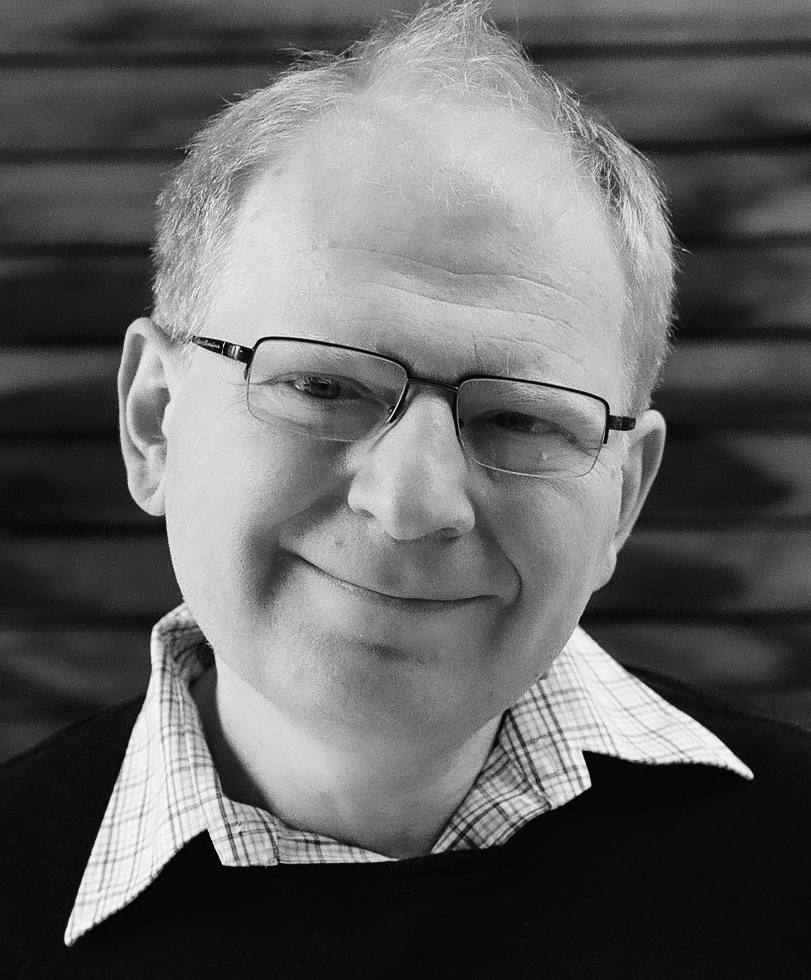
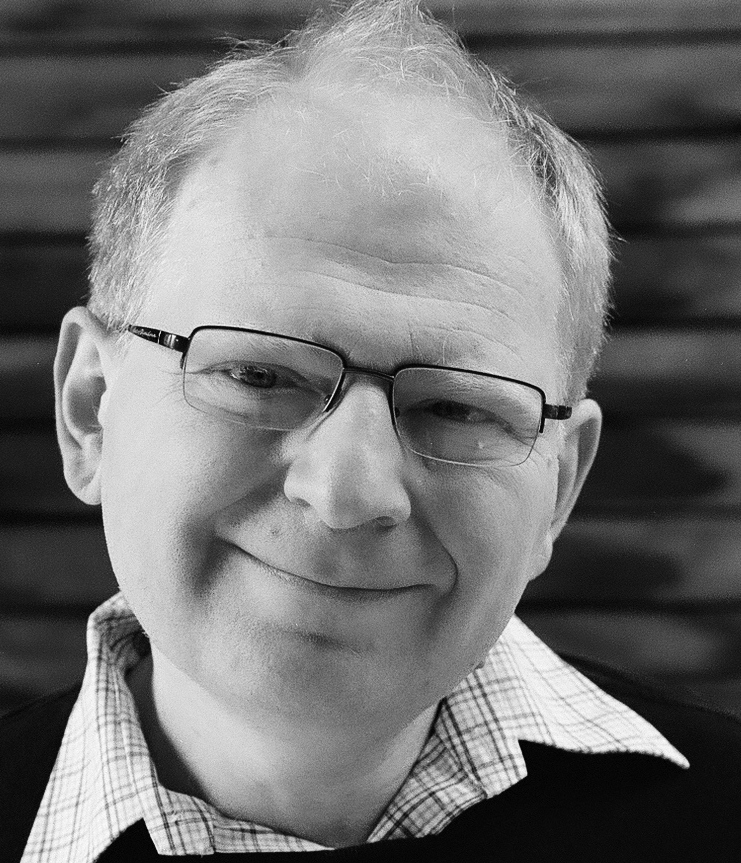
replace speakers

diff --git a/index.html b/index.html
@@ -315,43 +315,7 @@ humans? (2) Will and how virtual humans play roles in robotics and autonomous dr
 
 						<!-- portfolio items start -->
 						<div class="isotope-container row grid-space-20">
-							<div class="col-sm-6 col-md-3 isotope-item web-design">
-								<div class="image-box">
-									<div class="overlay-container">
-										<img src="images/alyosha.jpeg" alt="">
-                    <a href=""><font size="3">Alexei (Alyosha) Efros</font></a>
-                    <h3><font size="3">University of California, Berkeley</font> </h3>
-										<a class="overlay" data-toggle="modal" data-target="#project-1">
-											<i class="fa fa-search-plus"></i>
-										</a>
-									</div>
-									<a class="btn btn-default btn-block" data-toggle="modal" data-target="#project-1">Bio</a>
-								</div>
-								<!-- Modal -->
-								<div class="modal fade" id="project-1" tabindex="-1" role="dialog" aria-labelledby="project-1-label" aria-hidden="true">
-									<div class="modal-dialog modal-lg">
-										<div class="modal-content">
-											<div class="modal-header">
-												<button type="button" class="close" data-dismiss="modal"><span aria-hidden="true">&times;</span><span class="sr-only">Close</span></button>
-												<h4 class="modal-title" id="project-1-label">Bio</h4>
-											</div>
-											<div class="modal-body">
-												
-												<div class="row">												 
-													<div class="col-md-12">
-														<img src="images/alyosha.jpeg" alt="">
-														<br/>
-														<a href="https://people.eecs.berkeley.edu/~efros/"><font size="5">Alexei (Alyosha) Efros<font></h3></a>
-														<p>TBD.</p>
-													</div>
-												</div>
-											</div>
-											<div class="modal-footer">
-												<button type="button" class="btn btn-sm btn-default" data-dismiss="modal">Close</button>
-											</div>
-										</div>
-									</div>
-								</div>
+		
 								<!-- Modal end -->
 							</div>
 
@@ -393,45 +357,7 @@ humans? (2) Will and how virtual humans play roles in robotics and autonomous dr
 									</div>
 								</div>
 								<!-- Modal end -->
-							</div>
-							
-							<div class="col-sm-6 col-md-3 isotope-item web-design">
-								<div class="image-box">
-									<div class="overlay-container">
-										<img src="images/jiajunwu.jpeg" alt="">
-                    <a href=""><font size="3">Jiajun Wu</font></a>
-                    <h3><font size="3">Stanford University</font> </h3>
-										<a class="overlay" data-toggle="modal" data-target="#project-3">
-											<i class="fa fa-search-plus"></i> 
-										</a>
-									</div>
-									<a class="btn btn-default btn-block" data-toggle="modal" data-target="#project-3">Bio</a>
-								</div>
-								<!-- Modal -->
-								<div class="modal fade" id="project-3" tabindex="-1" role="dialog" aria-labelledby="project-3-label" aria-hidden="true">
-									<div class="modal-dialog modal-lg">
-										<div class="modal-content">
-											<div class="modal-header">
-												<button type="button" class="close" data-dismiss="modal"><span aria-hidden="true">&times;</span><span class="sr-only">Close</span></button>
-												<h4 class="modal-title" id="project-3-label">Bio</h4>
-											</div>
-											<div class="modal-body">
-												
-												<div class="row">												 
-													<div class="col-md-12">
-														<img src="images/jiajunwu.jpeg" alt="">
-														<br/>
-														<a href="https://jiajunwu.com/"><font size="5">Jiajun Wu<font></h3></a>
-														<p>TBD.</p>
-													</div>
-												</div>
-											</div>
-											<div class="modal-footer">
-												<button type="button" class="btn btn-sm btn-default" data-dismiss="modal">Close</button>
-											</div>
-										</div>
-									</div>
-								</div>
+
 								<!-- Modal end -->
 							</div>
 							
@@ -472,8 +398,96 @@ humans? (2) Will and how virtual humans play roles in robotics and autonomous dr
 										</div>
 									</div>
 								</div>
+
+
+															</div>
+							
+							<div class="col-sm-6 col-md-3 isotope-item web-design">
+								<div class="image-box">
+									<div class="overlay-container">
+										<img src="images/roozbeh.jpeg" alt="">
+                    <a href=""><font size="3">Roozbeh Mottaghi</font></a>
+                    <h3><font size="3">Meta</font> <wuwenyan/h3>
+										<a class="overlay" data-toggle="modal" data-target="#project-6">
+											<i class="fa fa-search-plus"></i> 
+										</a>
+									</div>
+									<a class="btn btn-default btn-block" data-toggle="modal" data-target="#project-6">Bio</a>
+								</div>
+								<!-- Modal -->
+								<div class="modal fade" id="project-6" tabindex="-1" role="dialog" aria-labelledby="project-6-label" aria-hidden="true">
+									<div class="modal-dialog modal-lg">
+										<div class="modal-content">
+											<div class="modal-header">
+												<button type="button" class="close" data-dismiss="modal"><span aria-hidden="true">&times;</span><span class="sr-only">Close</span></button>
+												<h4 class="modal-title" id="project-6-label">Bio</h4>
+											</div>
+											<div class="modal-body">
+												
+												<div class="row">												 
+													<div class="col-md-12">
+														<img src="images/roozbeh.jpeg" alt="">
+														<br/>
+                                                        <a href="https://roozbehm.info/"><font size="5">Roozbeh Mottaghi<font></h3></a>
+														<p>TBD.</p>
+													</div>
+												</div>
+											</div>
+											<div class="modal-footer">
+												<button type="button" class="btn btn-sm btn-default" data-dismiss="modal">Close</button>
+											</div>
+										</div>
+									</div>
+								</div>
 								<!-- Modal end -->
-							</div>
+															</div>
+							
+							<div class="col-sm-6 col-md-3 isotope-item web-design">
+								<div class="image-box">
+									<div class="overlay-container">
+										<img src="images/jiajunwu.jpeg" alt="">
+                    <a href=""><font size="3">Jiajun Wu</font></a>
+                    <h3><font size="3">Stanford University</font> </h3>
+										<a class="overlay" data-toggle="modal" data-target="#project-3">
+											<i class="fa fa-search-plus"></i> 
+										</a>
+									</div>
+									<a class="btn btn-default btn-block" data-toggle="modal" data-target="#project-3">Bio</a>
+								</div>
+								<!-- Modal -->
+								<div class="modal fade" id="project-3" tabindex="-1" role="dialog" aria-labelledby="project-3-label" aria-hidden="true">
+									<div class="modal-dialog modal-lg">
+										<div class="modal-content">
+											<div class="modal-header">
+												<button type="button" class="close" data-dismiss="modal"><span aria-hidden="true">&times;</span><span class="sr-only">Close</span></button>
+												<h4 class="modal-title" id="project-3-label">Bio</h4>
+											</div>
+											<div class="modal-body">
+												
+												<div class="row">												 
+													<div class="col-md-12">
+														<img src="images/jiajunwu.jpeg" alt="">
+														<br/>
+														<a href="https://jiajunwu.com/"><font size="5">Jiajun Wu<font></h3></a>
+														<p>TBD.</p>
+													</div>
+												</div>
+											</div>
+											<div class="modal-footer">
+												<button type="button" class="btn btn-sm btn-default" data-dismiss="modal">Close</button>
+											</div>
+										</div>
+									</div>
+								</div>
+								</div>
+
+							
+								<!-- Modal end -->
+
+
+
+
+							  							</div>
 							
 							<div class="col-sm-6 col-md-3 isotope-item app-development">
 								<div class="image-box">
@@ -512,36 +526,78 @@ humans? (2) Will and how virtual humans play roles in robotics and autonomous dr
 										</div>
 									</div>
 								</div>
+
 								<!-- Modal end -->
 							</div>
 							
-							<div class="col-sm-6 col-md-3 isotope-item web-design">
+							<div class="col-sm-6 col-md-3 isotope-item app-development">
 								<div class="image-box">
 									<div class="overlay-container">
-										<img src="images/ashish.jpeg" alt="">
-                    <a href=""><font size="3">Ashish Kumar</font></a>
-                    <h3><font size="3">Tesla</font> <wuwenyan/h3>
-										<a class="overlay" data-toggle="modal" data-target="#project-6">
+										<img src="images/michael.jpeg" alt="">
+                    <a href=""><font size="3">Michael J. Black</font></a>
+                    <h3><font size="2.5">Max Planck Institute for Intelligent Systems</font> </h3>
+										<a class="overlay" data-toggle="modal" data-target="#project-8">
 											<i class="fa fa-search-plus"></i> 
 										</a>
-									</div>
-									<a class="btn btn-default btn-block" data-toggle="modal" data-target="#project-6">Bio</a>
+									</div>pr
+									<a class="btn btn-default btn-block" data-toggle="modal" data-target="#project-8">Bio</a>
 								</div>
 								<!-- Modal -->
-								<div class="modal fade" id="project-6" tabindex="-1" role="dialog" aria-labelledby="project-6-label" aria-hidden="true">
+								<div class="modal fade" id="project-8" tabindex="-1" role="dialog" aria-labelledby="project-8-label" aria-hidden="true">
 									<div class="modal-dialog modal-lg">
 										<div class="modal-content">
 											<div class="modal-header">
 												<button type="button" class="close" data-dismiss="modal"><span aria-hidden="true">&times;</span><span class="sr-only">Close</span></button>
-												<h4 class="modal-title" id="project-6-label">Bio</h4>
+												<h4 class="modal-title" id="project-8-label">Bio</h4>
 											</div>
 											<div class="modal-body">
 												
 												<div class="row">												 
 													<div class="col-md-12">
-														<img src="images/ashish.jpeg" alt="">
+														<img src="images/michael.jpeg" alt="">
 														<br/>
-                                                        <a href="https://ashish-kmr.github.io/"><font size="5">Ashish Kumar<font></h3></a>
+                                                        <a href="https://ps.is.mpg.de/person/black"><font size="5">Michael J. Black<font></h3></a>
+														<p>TBD.</p>
+													</div>
+												</div>
+											</div>
+											<div class="modal-footer">
+												<button type="button" class="btn btn-sm btn-default" data-dismiss="modal">Close</button>
+											</div>
+										</div>
+									</div>
+								</div>
+							
+								<!-- Modal end -->
+															</div>
+							
+							<div class="col-sm-6 col-md-3 isotope-item app-development">
+								<div class="image-box">
+									<div class="overlay-container">
+										<img src="images/alyosha.jpeg" alt="">
+                    <a href=""><font size="3">Alexei (Alyosha) Efros</font></a>
+                    <h3><font size="2.5">University of California, Berkeley</font> </h3>
+										<a class="overlay" data-toggle="modal" data-target="#project-7">
+											<i class="fa fa-search-plus"></i> 
+										</a>
+									</div>
+									<a class="btn btn-default btn-block" data-toggle="modal" data-target="#project-7">Bio</a>
+								</div>
+								<!-- Modal -->
+								<div class="modal fade" id="project-7" tabindex="-1" role="dialog" aria-labelledby="project-7-label" aria-hidden="true">
+									<div class="modal-dialog modal-lg">
+										<div class="modal-content">
+											<div class="modal-header">
+												<button type="button" class="close" data-dismiss="modal"><span aria-hidden="true">&times;</span><span class="sr-only">Close</span></button>
+												<h4 class="modal-title" id="project-7-label">Bio</h4>
+											</div>
+											<div class="modal-body">
+												
+												<div class="row">												 
+													<div class="col-md-12">
+														<img src="images/alyosha.jpeg" alt="">
+														<br/>
+                                                        <a href="https://people.eecs.berkeley.edu/~efros/"><font size="5">Alexei (Alyosha) Efros<font></h3></a>
 														<p>TBD.</p>
 													</div>
 												</div>
@@ -554,9 +610,8 @@ humans? (2) Will and how virtual humans play roles in robotics and autonomous dr
 								</div>
 								<!-- Modal end -->
 
-							</div>
 
-						</div>
+						
 						<!-- portfolio items end -->
 					
 					</div>
@@ -749,7 +804,7 @@ humans? (2) Will and how virtual humans play roles in robotics and autonomous dr
 	                </tr>
 	                <tr>
 	                  <th scope="col">Notification to authors</th>
-	                  <td><del>May 31, 2024</del> June 2, 2024 (GMT)</td>
+	                  <td><del>May 31, 2024 /June 2, 2024</del> June 5, 2024 (GMT)</td>
 	                </tr>
 	                <tr>
 	                  <th scope="col">Camera ready deadline</th>
